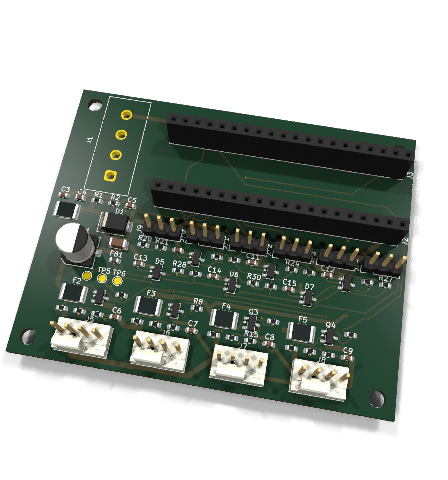
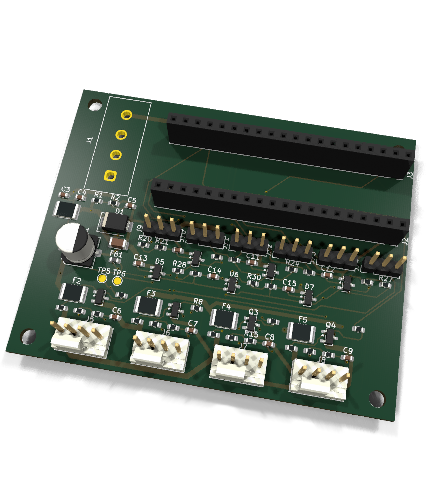
hw: regenerate pcb_3d.png at current board state, high quality
Render directly at 480x500 with --quality high (the highest fixed
tier) -- picks up the current board (TP1/TP4 removed) and keeps the
render command and file size simple.

Add SESSION_SUMMARY.md, tracking this session's KiCad MCP/kicad-cli
work: DRC/ERC cleanup history, full silk-violation root causes and
fixes, the pcb_3d.png render command, and tool choices.

diff --git a/SESSION_SUMMARY.md b/SESSION_SUMMARY.md
@@ -1,0 +1,108 @@
+# Session Summary — KiCad fan controller hardware work
+
+Date: 2026-10-21
+Repo: `hardware/kicad/fan_controller.{kicad_pcb,kicad_sch,kicad_pro}`
+
+## Tools used and results
+
+### Git / shell
+- `Bash` (`git status`, `git diff`, `git add`, `git commit`, `git log`) — staged and committed 4 commits this session:
+  - `8ed5d90` — resave project in KiCad 10 file format (pure reformat, no circuit change)
+  - `3d7ac59` — add `.gitignore` entries for KiCad lock files, `.history/`, DRC export
+  - `6827fa3` / `c66fd72` — route 21 originally-unrouted nets, remove dead-end via/track stubs, remove TP2/TP3 test points
+  - `7dbc83a` — swap J1 connector, drop main-board USB, rotate J3, relocate power-input cluster
+- `kicad-cli pcb drc --severity-all --exit-code-violations` (run ~25 times via Bash) — the authoritative connectivity/clearance check used throughout. Discovered the MCP backend's own `run_drc`/`get_drc_violations` tools **do not** run the `unconnected_items` check, which was the root cause of several false "0 errors" readings early in the session.
+
+### KiCad MCP tools (`mcp__kicad__*`)
+- `open_board` / `open_project` / `save_board` — board session lifecycle, used continuously between edits.
+- `get_ratsnest` — found to be a raw pad-distance MST estimate, **not** a real unrouted-connection indicator (always nonzero even on fully-routed nets); abandoned in favor of native DRC.
+- `run_drc` / `get_drc_violations` — used early, found unreliable (see above); replaced by native `kicad-cli` for all later checks.
+- `get_component_pads`, `get_component_properties`, `get_net_pads`, `query_traces`, `get_nets_list`, `get_board_extents`, `get_board_2d_view` — inspection tools used extensively to locate pads, trace geometry, and render board snapshots for visual verification.
+- `delete_trace` (by UUID and by net) — removed dangling via/track stubs (20 vias + 9 stubs in initial cleanup), orphaned USB_DP/USB_DM traces (59), orphaned FAN*_TACH/FAN*_PWM traces across multiple reroute cycles (150+), and various short-causing traces introduced mid-session.
+- `add_via`, `route_trace`, `route_pad_to_pad`, `modify_trace` — manual routing/repair for specific net gaps and short fixes.
+- `autoroute` (Freerouting via Docker) — called ~6 times, best-of-3 attempts each, to bulk-route: the original 21 missing nets, J1's new pads, J3's nets after each reposition, and the relocated power cluster. Typical run: 25–300s, 0–3 nets occasionally left for manual finishing (GND and +3V3A were consistently the hardest for the router to close automatically).
+- `check_freerouting` — confirmed Docker-based Freerouting 2.5.0 available.
+- `delete_component`, `place_component`, `move_component`, `rotate_component` — removed J4/U1/R3 (USB path); placed/repositioned J1 (new connector) and relocated F1/D1/C1/C2/FB1 (power-input cluster) to resolve a courtyard collision with J3.
+- `create_footprint`, `register_footprint_library` — built a custom `ConnHeader_MateNLok_1x04_P5.08mm_Vertical` footprint for J1 from the real TE Connectivity 350424-1 datasheet (pitch, drill size), registered as a project-local `fanctl.pretty` library (no footprint libraries exist in this environment otherwise).
+- `get_schematic_component`, `get_schematic_pin_locations`, `delete_schematic_component`, `batch_add_and_connect`, `set_schematic_component_property`, `run_erc` — schematic-side edits mirroring the PCB changes (J1 symbol swap, J4/U1/R3/TP2/TP3 removal), kept in sync throughout.
+- `check_placement_clearance`, `suggest_placement` — validated the relocated power-cluster placement; `suggest_placement`'s auto-layout was tried once but produced more overlaps than the manual placement, so manual placement was used instead.
+- `search_parts_registry`, `digikey_search_parts` — part lookup; DigiKey required unset API credentials (not configured in this environment), parts registry had no exact match for the TE part.
+
+### Web / research tools
+- `WebSearch` — found distributor listings for TE Connectivity part 350424-1.
+- `ctx_fetch_and_index` (context-mode plugin) — fetched distributor pages and the TE datasheet PDF without pulling raw bytes into the conversation.
+- `Read` (with `pages` param) — read the TE 350424-1 datasheet PDF visually (it's a scanned image PDF, no extractable text) to get the real mechanical drawing: 0.200" (5.08mm) pitch, 0.070" (1.78mm) drill, shrouded 4-circuit header, 12A/250V.
+
+### File edit tools
+- `Read` / `Edit` / `Write` — direct `.kicad_pcb`/`.kicad_sch` s-expression edits where MCP tools couldn't reach (embedding the new J1 footprint block by hand since the MCP backend's footprint-library cache doesn't live-reload; fixing the `fp-lib-table` to use `${KIPRJMOD}` instead of an absolute path before commit).
+
+### Coordination tools
+- `AskUserQuestion` — used 4 times for decisions with real tradeoffs: dangling-via cleanup scope, +3V3 test-point removal scope, connector-fit resolution strategy (revert J3 vs. redesign), and footprint-data sourcing strategy.
+
+## Key findings
+1. The MCP KiCad backend's DRC wrapper silently omits the `unconnected_items` check — always verify with native `kicad-cli pcb drc --severity-all`.
+2. `get_ratsnest` is not a connectivity check; it's a theoretical pad-distance estimate.
+3. Rotating/moving a multi-pin footprint rotates around its **pin-1 origin**, not its geometric center — a naive 180° rotation can shoot a whole pin row off the board edge.
+4. This board has zero footprint libraries registered in the current environment; footprints are embedded directly in the `.kicad_pcb` file and referenced by name only for cosmetic/editor purposes.
+5. The physically larger replacement connector (TE 350424-1, 23.24mm) does not fit in J1's original corner without displacing neighboring parts — confirmed by exhaustive free-space search before redesigning.
+
+## Known incomplete state (as of last commit `7dbc83a`)
+Native DRC still reports 5 unconnected items, 7 shorts, and 3 track crossings, localized to the relocated F1/D1/C1/C2/FB1 cluster and nearby NRST routing. `hardware/tools/gen_kicad.py` (the board's generator / BOM source of truth) has not been updated to match today's schematic/PCB changes.
+
+## 2026-10-22 — `hardware/pcb_3d.png` render command
+
+Via `kicad-cli pcb render` directly (no MCP tool exposes this; `mcp__kicad__export_3d`/`export_3d_cli` only produce STEP/GLB/STL/etc., not a raytraced PNG):
+
+```
+kicad-cli pcb render --side top --rotate "-20,0,350" --zoom 0.75 --perspective --floor \
+  --background transparent --quality high --width 480 --height 500 \
+  -o hardware/pcb_3d.png hardware/kicad/fan_controller.kicad_pcb
+```
+
+Notes:
+- `--rotate X,Y,Z`: X tilts up/down, Z spins left/right around the vertical axis.
+- `--zoom 0.75` (< 1 = zoomed out): needed to stop perspective + rotation from clipping the board edges/mounting holes at the default `--zoom 1`.
+- `--background transparent` only applies to the PNG/JPEG raytrace renderer; there is no SVG output path for the 3D view (`export_pcb_svg`/`export_svg` only do flat 2D layer plots, not the raytraced 3D model).
+- `--quality high` is the highest fixed tier (`basic`/`high`/`user`/`job_settings`); rendering straight at 480×500 instead of supersampling-and-downsampling to keep the command and output size simple.
+- Output: 480×500px, RGBA with a real alpha channel (verified via `PIL`), ~176KB.
+
+## 2026-10-22 — DRC silk violations: full history and corrections
+
+Starting point, once the dangling tracks/vias (10 items), the J1 footprint-library mismatch, and the missing-footprint-library warnings were already cleared: **66 warnings, 0 errors** — `silk_overlap: 55`, `silk_over_copper: 11`.
+
+(That 66 itself is higher than the original 50+11=61 seen at session start: resyncing 68 footprints to the real, now-installed KiCad libraries — see `242605a` — replaced undersized legacy silk/courtyard graphics with correct ones, which *exposed* 5 more genuine clearance collisions that had been hidden by the old undersized graphics.)
+
+### Root cause
+Default reference-designator silkscreen offset (e.g. −1.43mm for 0603, −2.4mm for SOT-23) lands on copper or a neighbor's silk because components are placed at ~3.6mm pitch in repeating per-channel rows (FAN1–4: F/Q/R/C groups; AIN1–6: R/C/diode breakout row).
+
+### Pass 1 — commit `ee91801`: 66 → 19
+Hid (`F.SilkS` `visible=false`, via `move_footprint_text`) the reference-designator text on 21 footprints, chosen because the violation coordinate matched that footprint's own text position exactly or within ~1mm:
+`C2, C10, F1, Q1, R5, R6, R7, R9, R10, R11, R13, R14, R17, R18, R19, R22, R23, R26, R29, R31, TP4`
+
+Result: `silk_over_copper` fully cleared (11 → 0); `silk_overlap` 55 → 19.
+
+### Pass 2 — commit `d02c561`: 19 → 14
+Image-based inspection (`get_board_2d_view`, F.SilkS-only layer) found more text-vs-silk collisions in the AIN breakout row and FAN2 channel not caught by the coordinate-matching heuristic above. Hid 6 more:
+`D2, D3, D4, R22` (re-hidden, harmless), `R25, Q2`
+
+Result: 19 → 14, all remaining `silk_overlap`.
+
+### Failed attempt (reverted)
+Tried stripping D2/D3/D4's own `F.SilkS` body-outline graphics (`fp_line`) entirely, on the theory the diode bodies were the colliding geometry. Made it **worse**: 19 → 22 (`silk_overlap` stayed at 19 unchanged, `lib_footprint_mismatch` appeared for 3 instances since deleted graphics no longer matched the library). Reverted via `git checkout`.
+
+### Remaining 14 `silk_overlap` (open, not yet fixed)
+Genuine body-outline-vs-body-outline collisions between two *correctly* library-matched footprints — not reference text, so hiding text can't fix these. Confirmed via silk-only 2D render + coordinate/geometry search:
+
+| Pair | Components | Location |
+|---|---|---|
+| PinHeader_1x03 vs BAT54S pin-1 mark | `J10` ↔ `D5` | AIN1-6 breakout row |
+| PinHeader_1x03 vs BAT54S pin-1 mark | `J11` ↔ `D6` | AIN1-6 breakout row |
+| PinHeader_1x03 vs BAT54S pin-1 mark | `J12` ↔ `D7` | AIN1-6 breakout row |
+| PinHeader_1x03 vs SOT-23 pin-1 mark | `J13` ↔ `Q3` | AIN1-6 breakout row |
+| PinHeader_1x03 vs SOT-23 pin-1 mark | `J14` ↔ `Q4` | AIN1-6 breakout row |
+| SOT-23 body silk vs 0603 body silk | `Q2` ↔ `R11` | FAN2 channel |
+
+Why these are stuck: trimming either side's silk graphics to clear the overlap makes that footprint deviate from its real KiCad library copy, which reopens `lib_footprint_mismatch` (demonstrated by the reverted attempt above) — a straight trade, not a fix. The only real fix is nudging one component in each pair by roughly 0.3–1mm, which risks disturbing already-routed traces and may be constrained by external harness/connector pitch on J9–J14. Left open pending a placement-nudge decision.
+
+### Final DRC state (as of commit `d02c561`)
+0 errors, 14 warnings, all `silk_overlap`, all in the table above.
